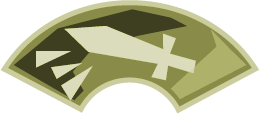
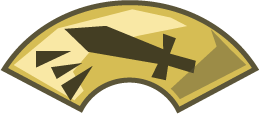
Replaced 3 buttons png, redid the action script

diff --git a/ChivalryIsDead/Assets/Programmers/Philip/SimpleJoystickAction1.cs b/ChivalryIsDead/Assets/Programmers/Philip/SimpleJoystickAction1.cs
@@ -80,44 +80,25 @@ namespace CnControls
         [Tooltip("Image of the joystick base")]
         public Image ActionTop;
         public Sprite attackRdy;
-        public Sprite Action1;
-        public Sprite Action2;
-        public Sprite Action3;
-        public Sprite Action4;
-        public Sprite Action5;
-        Sprite[] attackList;
+        public Sprite attackCd;
 
         public Sprite RW;
 
-        /// <summary>
-        /// Image of the joystick base
-        /// </summary>
-        [Tooltip("Image of the joystick base")]
-        public Image ActionBottom;
 
         /// <summary>
         /// Image of the joystick base
         /// </summary>
         [Tooltip("Image of the joystick base")]
         public Image ActionLeft;
-
+        public Sprite tauntRdy;
+        public Sprite tauntCd;
         /// <summary>
         /// Image of the joystick base
         /// </summary>
         [Tooltip("Image of the joystick base")]
         public Image ActionRight;
-
-        /// <summary>
-        /// Image of the joystick base
-        /// </summary>
-        [Tooltip("Image of the joystick base")]
-        public Image ActionCenter;
-
-        /// <summary>
-        /// Image of the joystick base
-        /// </summary>
-        [Tooltip("Image of the joystick base")]
-        public Image ActionCenterPushed;
+        public Sprite overreactRdy;
+        public Sprite overreactCd;
 
         /// <summary>
         /// Image of the stick itself
@@ -230,7 +211,6 @@ namespace CnControls
 
             playerActionController = player.GetComponent<PlayerActionController>();
 
-            attackList = new Sprite[5] { Action1, Action2, Action3, Action4, Action5};
         }
 
 
@@ -353,7 +333,7 @@ namespace CnControls
     {
         //attack = true; // angeliki commented out this
         //ActionCenter.color = new Color(1, 1, 1, 1);
-        ActionCenterPushed.enabled = true;
+        //ActionCenterPushed.enabled = true;
     }
     //else if ((angle >= 0 && angle < 54) || (angle >= 270 && angle < 360)) { // angeliki commented out this
     else if ((angle >= 0 && angle < 34) || (angle >= 265 && angle < 360)) // angeliki added this
@@ -392,7 +372,7 @@ namespace CnControls
                 attack = true; // angeliki added this
                 if (attackCooldownFill == 1)
                 {
-                    ActionBottom.color = new Color(1, 1, 1, 1);
+                    ActionTop.color = new Color(1, 1, 1, 1);
                 }
             }
            
@@ -415,26 +395,44 @@ namespace CnControls
             //Debug.Log((int)(attackCooldownFill / 0.2f));
             if (attackCooldownFill < 1)
             {
-                ActionBottom.sprite = attackList[(int)(attackCooldownFill / 0.2f)];
-                
-
-                //ActionBottom.sprite = Action1;
-
-                //ActionBottom.fillAmount = attackCooldownFill;
+                ActionTop.sprite = attackCd;
+                ActionTop.fillAmount = attackCooldownFill;
             }
             else {
-                ActionBottom.sprite = attackRdy;
-                updateActionUI();
+                ActionTop.sprite = attackRdy;
+                if (attack) {
+                    ActionTop.color = new Color(1, 1, 1, 1);
+                }
+                else {
+                    ActionTop.color = new Color(0.5f, 0.5f, 0.5f, 1);
+
+                }
+
+                //updateActionUI();
             }
             if (tauntCooldownfill < 1)
             {
+                ActionLeft.sprite = tauntCd;
                 ActionLeft.fillAmount = tauntCooldownfill;
+            }
+            else {
+                ActionLeft.sprite = tauntRdy;
+                if (taunt) {
+                    ActionLeft.color = new Color(1, 1, 1, 1);
+                }
             }
 
 
             if (overreactCooldownFill < 1)
             {
+                ActionRight.sprite = overreactCd;
                 ActionRight.fillAmount = overreactCooldownFill;
+            }
+            else {
+                ActionRight.sprite = overreactRdy;
+                if (overreact) {
+                    ActionRight.color = new Color(1, 1, 1, 1);
+                }
             }
 
         }
@@ -447,10 +445,8 @@ namespace CnControls
             cancel = false;
             //question = false;
             //ActionTop.color = new Color(0.5f, 0.5f, 0.5f, 1);
-            ActionBottom.color = new Color(0.5f, 0.5f, 0.5f, 1);
             ActionLeft.color = new Color(0.5f, 0.5f, 0.5f, 1);
             ActionRight.color = new Color(0.5f, 0.5f, 0.5f, 1);
-            ActionCenterPushed.enabled = false;
 
         }
 
@@ -536,8 +532,7 @@ namespace CnControls
 
 
             SX = SY = 0;
-            ActionTop.color = new Color(0.5f, 0.5f, 0.5f, 1);
-            ActionBottom.color = new Color(0.5f, 0.5f, 0.5f, 1);
+            //ActionTop.color = new Color(0.5f, 0.5f, 0.5f, 1);
             //Debug.Log("JFIDOAWJDIOWA");
             // When we press, we first want to snap the joystick to the user's finger
             if (SnapsToFinger)
